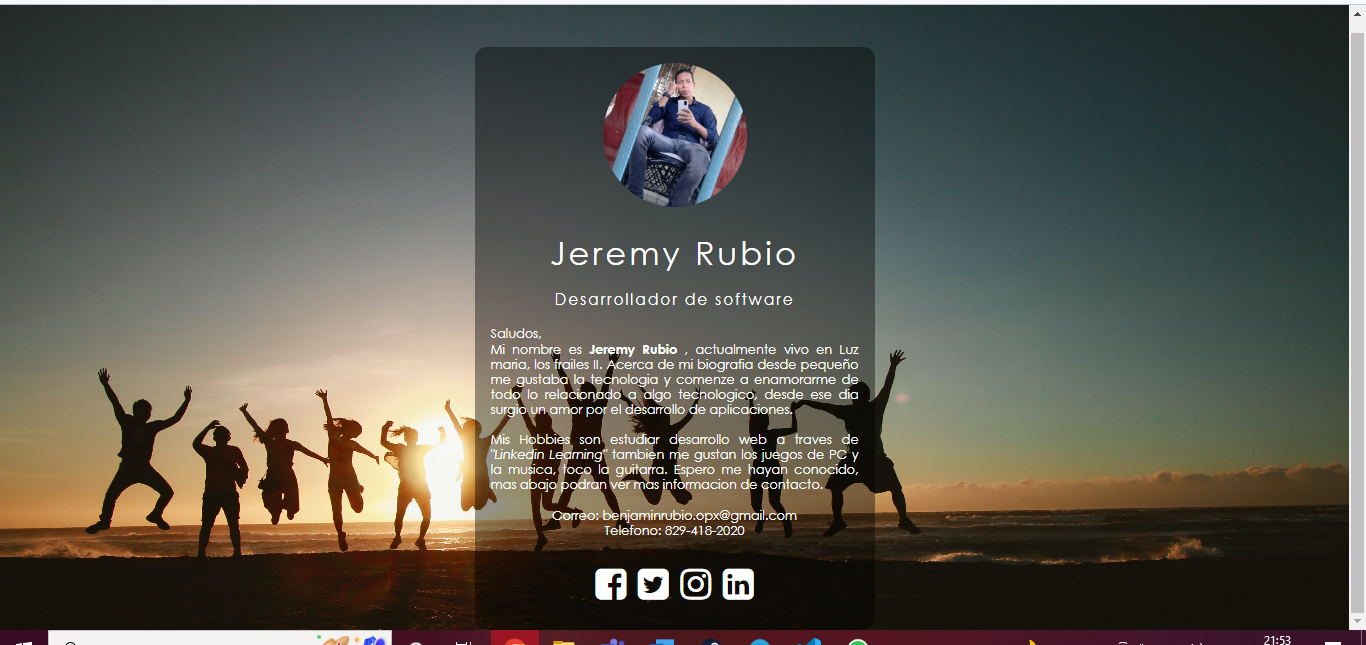
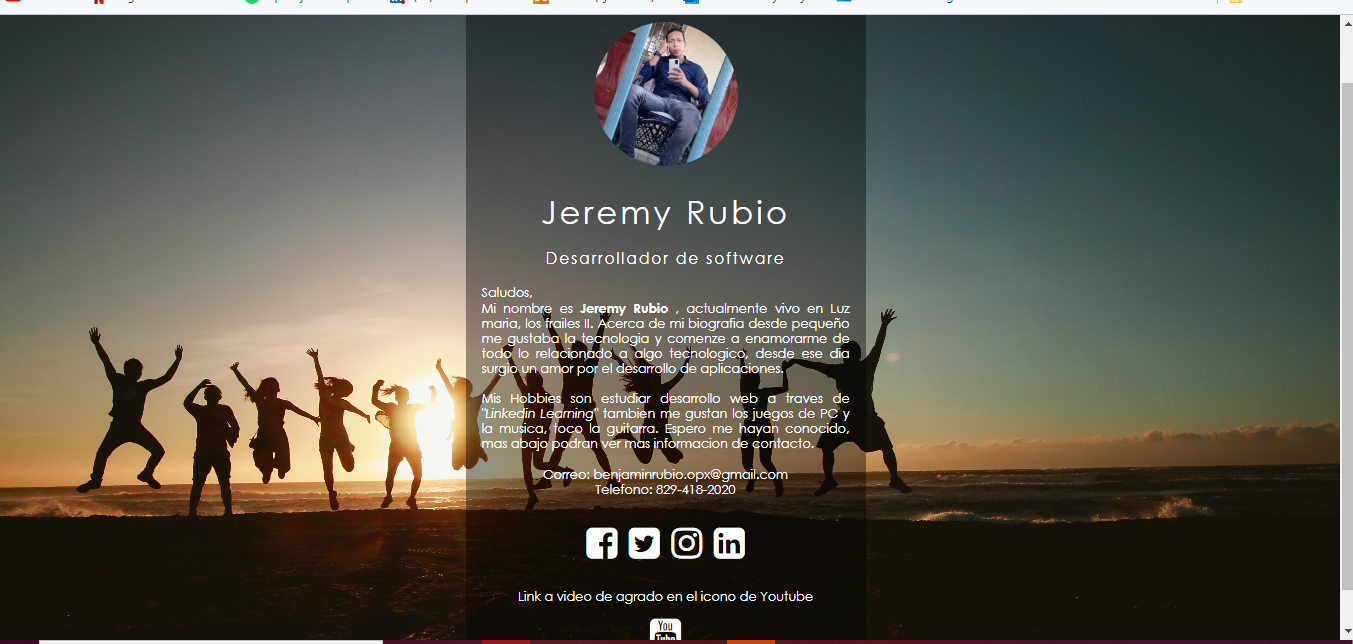
Updated completely

diff --git a/1st_homework.html b/1st_homework.html
@@ -18,7 +18,7 @@
         surgio un amor por el desarrollo de aplicaciones. <br> <br> Mis Hobbies son estudiar desarrollo web a traves de <i>"Linkedin Learning"</i> tambien me gustan los juegos de PC 
         y la musica, toco la guitarra. Espero me hayan conocido, mas abajo podran ver mas informacion de contacto. 
         </p>    
-        <ul class = "box-contact"> 
+        <ul> 
             <li>Correo: benjaminrubio.opx@gmail.com</li> 
             <li>Telefono: 829-418-2020</li> 
         </ul>
@@ -28,8 +28,15 @@
             <li><a href="https://www.instagram.com/jeremy_rubioo/?hl=es"><i class="fa fa-instagram" aria-hidden="true"></i></a></li>
             <li><a href="https://www.linkedin.com/in/jeremy-rubio-aab94120b"><i class="fa fa-linkedin-square" aria-hidden="true"></i></a></li>
           </ul>
-
-     
+          
+          <section class="boxyoutube">
+            <ul> 
+                <p>Link a video de agrado en el icono de Youtube</p>
+                <li><a href="https://youtu.be/FquhkXMq-sA"><i class="fa fa-youtube-square" aria-hidden="true"></i></a></li>
+              </ul>
+         
+          </section>
+         
     </section>
 
 </body>

diff --git a/style.css b/style.css
@@ -65,4 +65,8 @@ body {
 .box ul li a:hover { 
     color: #b9b9b9;
     transform: scale(1.1);
+}  
+
+.boxyoutube ul p {  
+    text-align: center;
 }
